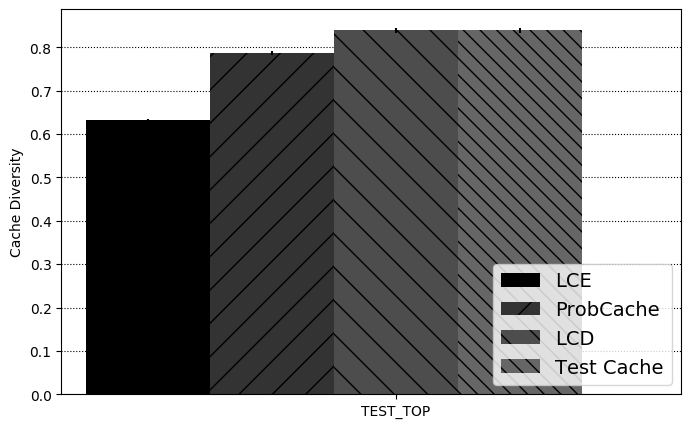
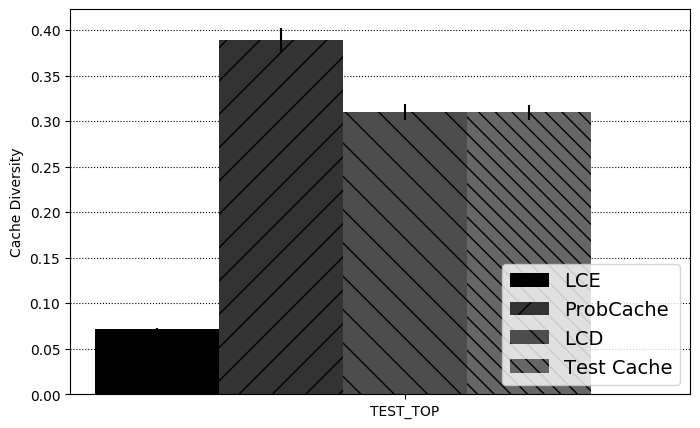
Fixed other topologies bug

diff --git a/examples/btp_test/config.py b/examples/btp_test/config.py
@@ -30,12 +30,12 @@ RESULTS_FORMAT = 'PICKLE'
 
 # Number of times each experiment is replicated
 # This is necessary for extracting confidence interval of selected metrics
-N_REPLICATIONS = 5
+N_REPLICATIONS = 10
 
 # List of metrics to be measured in the experiments
 # The implementation of data collectors are located in ./icaurs/execution/collectors.py
 #DATA_COLLECTORS = ['CACHE_HIT_RATIO', 'PATH_STRETCH', 'EVICTIONS']
-DATA_COLLECTORS = ['CACHE_HIT_RATIO', 'UTILIZATION', 'EVICTIONS', 'DIVERSITY']
+DATA_COLLECTORS = ['CACHE_HIT_RATIO', 'UTILIZATION', 'EVICTIONS', 'DIVERSITY', 'PATH_STRETCH']
 
 # Range of alpha values of the Zipf distribution using to generate content requests
 # alpha values must be positive. The greater the value the more skewed is the 
@@ -49,31 +49,31 @@ DATA_COLLECTORS = ['CACHE_HIT_RATIO', 'UTILIZATION', 'EVICTIONS', 'DIVERSITY']
 # This would give problems while trying to plot the results because if for
 # example I wanted to filter experiment with alpha=0.8, experiments with
 # alpha = 0.799999999999 would not be recognized 
-ALPHA = [0.8]
+ALPHA = [2]
 
 # Total size of network cache as a fraction of content population
-NETWORK_CACHE = [0.1]
+NETWORK_CACHE = [0.04]
 
 # Number of content objects
 N_CONTENTS = 3*10**4
 
 # Number of requests per second (over the whole network)
-NETWORK_REQUEST_RATE = 20.0
+NETWORK_REQUEST_RATE = 10.0
 
 # Number of content requests generated to prepopulate the caches
 # These requests are not logged
-N_WARMUP_REQUESTS = 0*3*10**4
+N_WARMUP_REQUESTS = 3*10**2
 
 # Number of content requests generated after the warmup and logged
 # to generate results. 
-N_MEASURED_REQUESTS = 5*10**5
+N_MEASURED_REQUESTS = 5*10**4
 
 # List of all implemented topologies
 # Topology implementations are located in ./icarus/scenarios/topology.py
 TOPOLOGIES =  [
         #'GARR_2',
+        'TEST_TOP',
         #'GEANT_2',
-        'TEST_TOP'
               ]
 
 # List of caching and routing strategies

diff --git a/icarus/scenarios/workload.py b/icarus/scenarios/workload.py
@@ -88,6 +88,7 @@ class StationaryWorkload(object):
             raise ValueError('alpha must be positive')
         if beta < 0:
             raise ValueError('beta must be positive')
+        self.topology = topology
         self.receivers = [v for v in topology.nodes_iter()
                      if topology.node[v]['stack'][0] in ('receiver', 'all')]
         self.zipf = TruncatedZipfDist(alpha, n_contents)
@@ -95,7 +96,6 @@ class StationaryWorkload(object):
         self.contents = range(1, n_contents + 1)
         self.alpha = alpha
         self.rate = rate
-        self.topology = topology
         self.n_warmup = n_warmup
         self.n_measured = n_measured
         random.seed(seed)
@@ -115,9 +115,10 @@ class StationaryWorkload(object):
             else:
                 receiver = self.receivers[self.receiver_dist.rv() - 1]
             content = int(self.zipf.rv())
-            while content in self.topology.node[receiver]['stack'][1]['contents']:
-                #print('coll')
-                content = int(self.zipf.rv())
+            if self.topology.node[receiver]['stack'][1]:
+                while content in self.topology.node[receiver]['stack'][1]['contents']:
+                    #print('coll')
+                    content = int(self.zipf.rv())
             log = (req_counter >= self.n_warmup)
             event = {'receiver': receiver, 'content': content, 'log': log}
             yield (t_event, event)

diff --git a/examples/btp_test/plotresults.py b/examples/btp_test/plotresults.py
@@ -384,7 +384,7 @@ def run(config, results, plotdir):
     strategies = settings.STRATEGIES
     # Plot graphs
     plot_cache_hit(resultset, topologies, strategies, cache_sizes[0], alphas[0], plotdir)
-    #plot_path_stretch(resultset, topologies, strategies, cache_sizes[0], alphas[0], plotdir)
+    plot_path_stretch(resultset, topologies, strategies, cache_sizes[0], alphas[0], plotdir)
     plot_cache_evictions(resultset, topologies, strategies, cache_sizes[0], alphas[0], plotdir)
     plot_cache_utilization(resultset, topologies, strategies, cache_sizes[0], alphas[0], plotdir)
     plot_cache_diversity(resultset, topologies, strategies, cache_sizes[0], alphas[0], plotdir)

diff --git a/icarus/execution/engine.py b/icarus/execution/engine.py
@@ -51,12 +51,11 @@ def exec_experiment(topology, workload, netconf, strategy, cache_policy, collect
                        for name, params in collectors.items()]
     collector = CollectorProxy(view, collectors_inst)
     controller.attach_collector(collector)
-
+    
     strategy_name = strategy['name']
     strategy_args = {k: v for k, v in strategy.items() if k != 'name'}
     strategy_inst = STRATEGY[strategy_name](view, controller, **strategy_args)
-    #print(strategy_inst)
-    #print(1,len(list(workload)))
+    print(type(workload))
     for time, event in workload:
         #print(time, event)
         strategy_inst.process_event(time, **event)

diff --git a/icarus/scenarios/contentplacement.py b/icarus/scenarios/contentplacement.py
@@ -56,7 +56,7 @@ def uniform_content_placement(topology, contents, seed=None):
     random.seed(seed)
     source_nodes = get_sources(topology)
     content_placement = collections.defaultdict(set)
-    print(source_nodes)
+    #print(source_nodes)
     for c in contents:
         content_placement[random.choice(source_nodes)].add(c)
     apply_content_placement(content_placement, topology)
